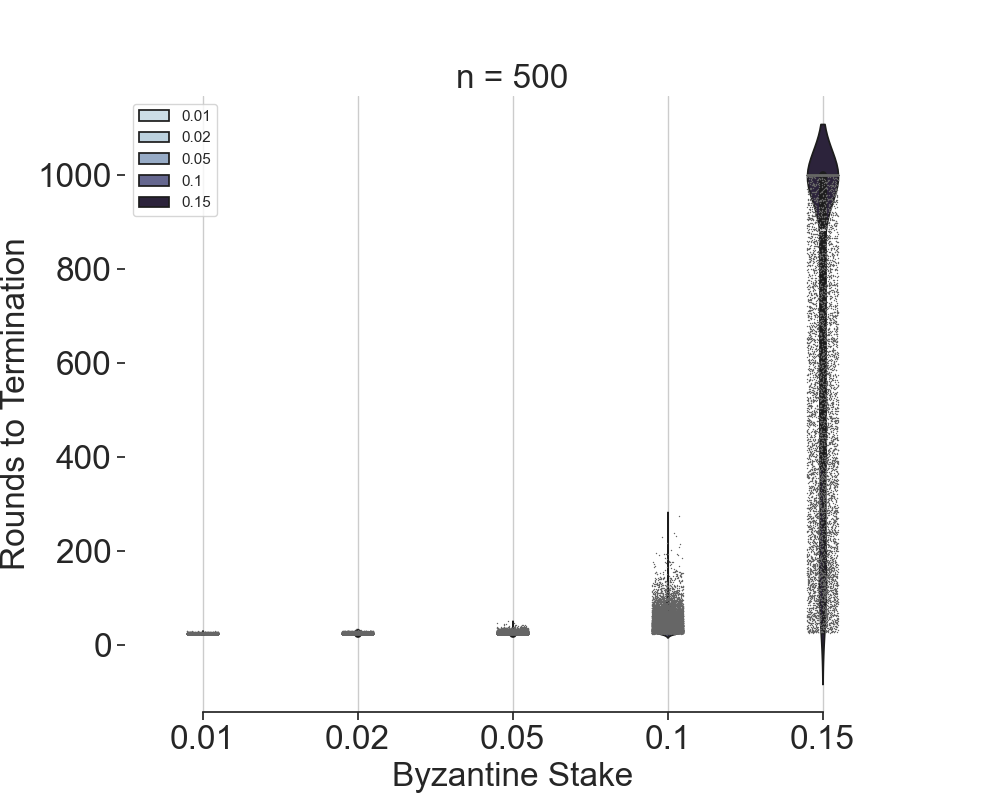
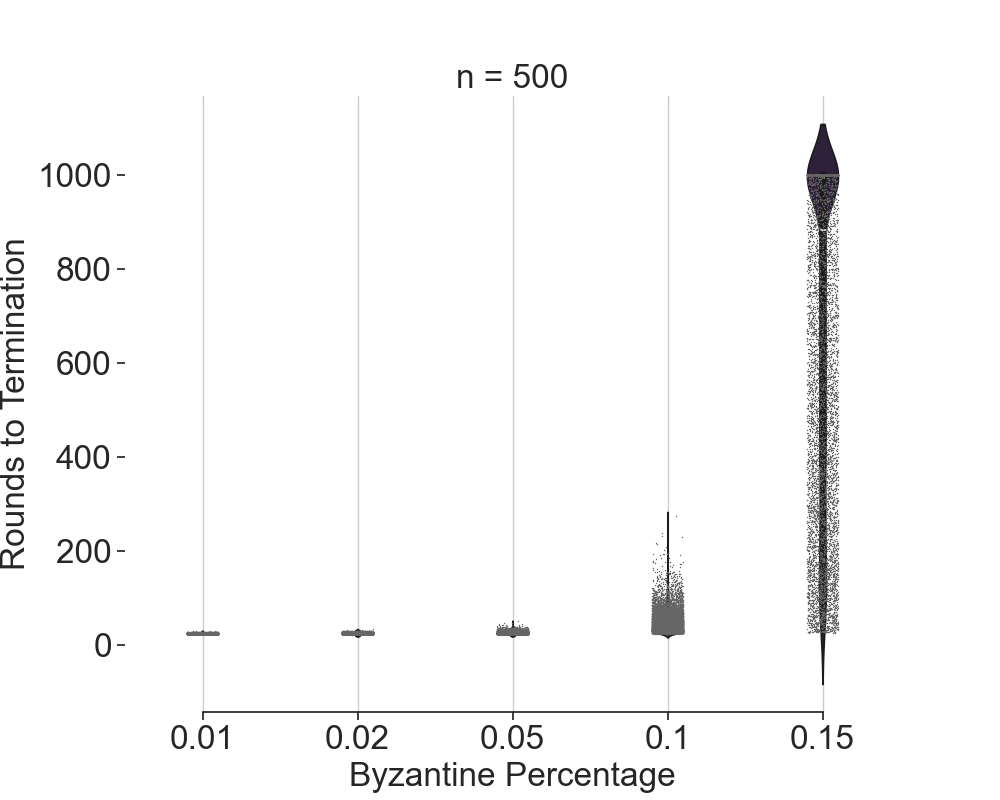
Update legend

diff --git a/cmd/snowball/graph.py b/cmd/snowball/graph.py
@@ -15,11 +15,11 @@ def graph_byz_round_to_termination(csv: str, n: int, k: int, save_path: str = No
     # Load the sim output data
     simdata = pd.read_csv(csv)
 
-    # Plot the portion of byzantine stake vs. rounds to termination
+    # Plot the portion of byzantine weight vs. rounds to termination
     # capped at 1k rounds
     # violin plot may be good too
     sns.violinplot(
-        simdata, x="byz", y="rounds", hue="byz", width=.2, palette=sns.color_palette("ch:s=.25,rot=-.25", as_cmap=True),
+        simdata, x="byz", y="rounds", hue="byz", width=.2, palette=None, legend=False,
         # whis=[0.25, 0.75],
     ).set_title(f"n = {'{:,}'.format(n)}", fontsize=fontsize)
 
@@ -28,7 +28,7 @@ def graph_byz_round_to_termination(csv: str, n: int, k: int, save_path: str = No
 
     # Tweak the visual presentation
     ax.xaxis.grid(True)
-    ax.set_xlabel("Byzantine Stake", fontsize=fontsize)
+    ax.set_xlabel("Byzantine Percentage", fontsize=fontsize)
     ax.set_ylabel("Rounds to Termination", fontsize=fontsize)
     sns.despine(trim=True, left=True)
 
@@ -52,4 +52,4 @@ def save_each():
         graph_byz_round_to_termination(f'{base}.csv', n, k, f'{base}.png')
 
 if __name__ == "__main__":
-    show()
+    save_each()
